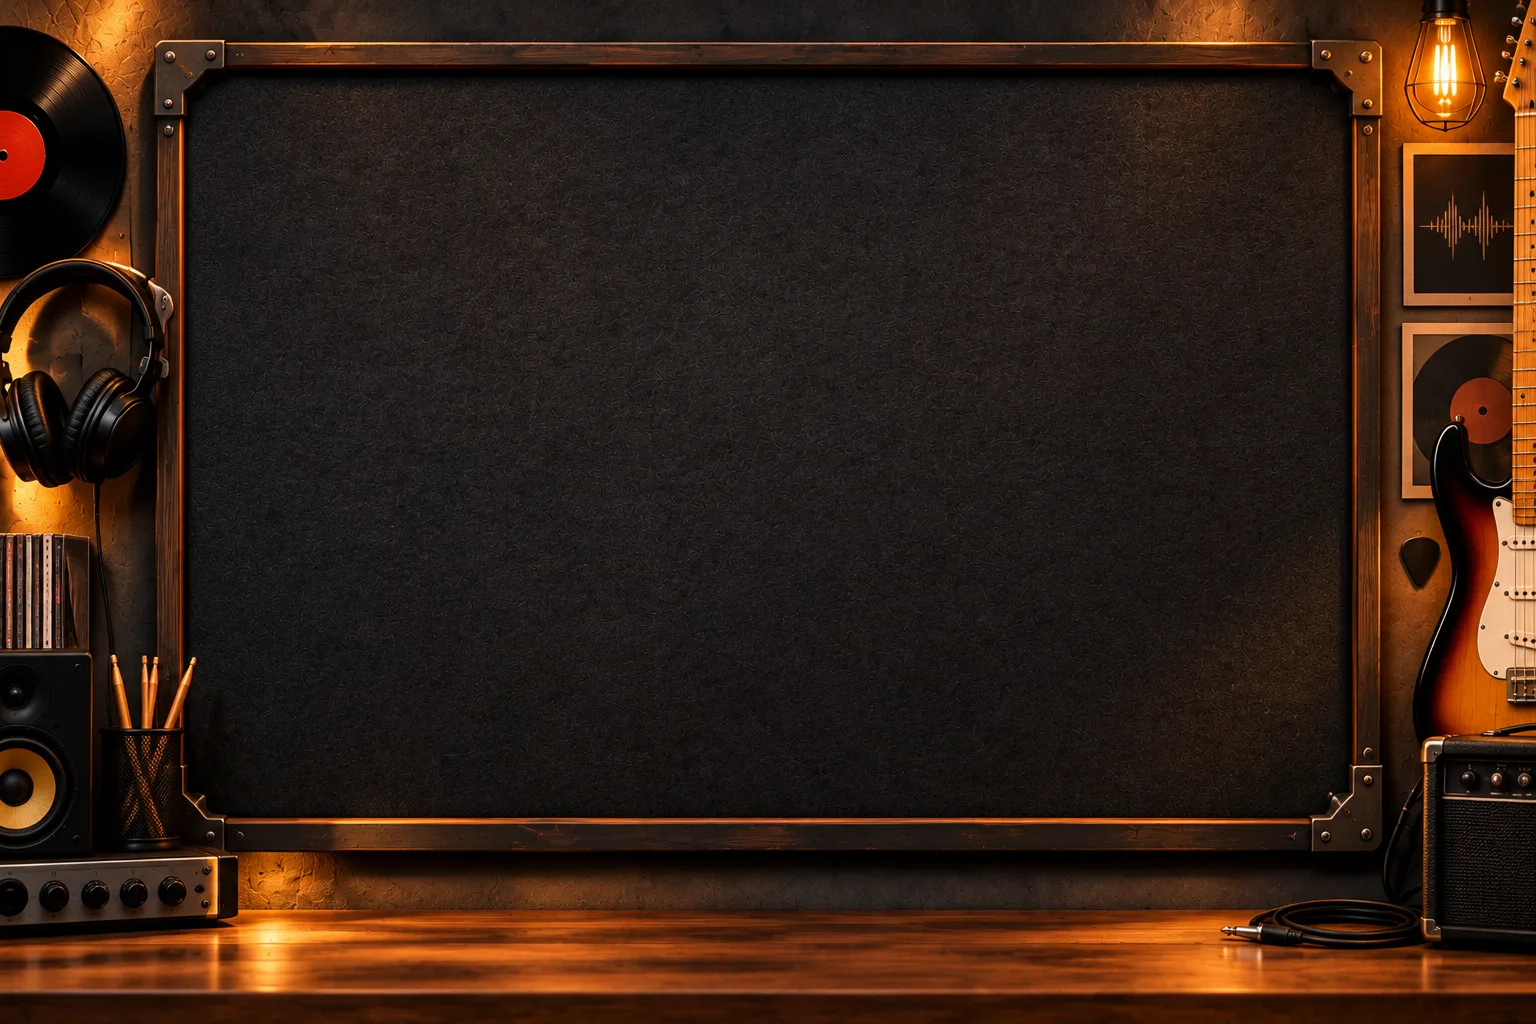
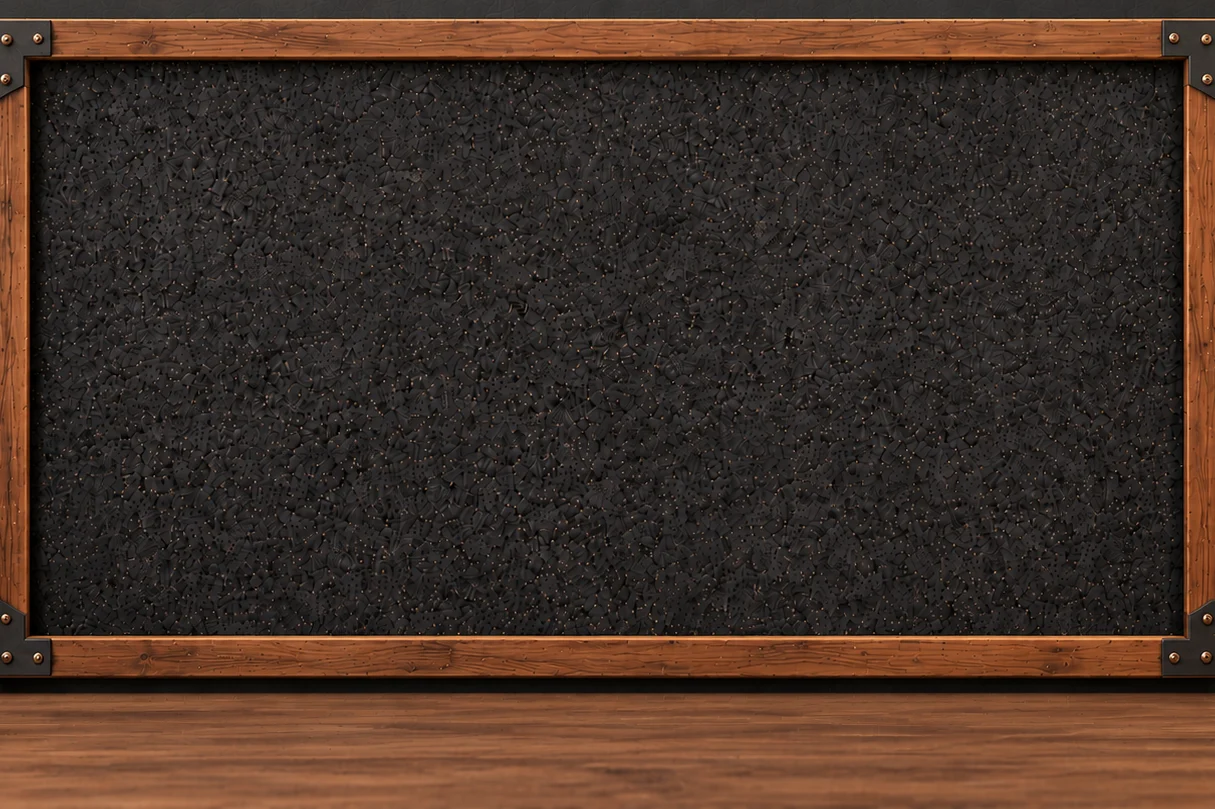
Novas artes panorâmicas dos quadros (7 quadros): Cortiça, Acolhedor, Filmes, Game, Minimalista, Música e Viagens

diff --git a/src/lib/boards.ts b/src/lib/boards.ts
@@ -1,7 +1,7 @@
 import type { PlanId } from "./plans";
 
-/** Quadros (fundos) do mural (10 no total). O primeiro é o padrão de todo mural novo. Originais em /imagens/quadro-*.png. */
-export type BoardId = "cortica" | "criativo" | "geek" | "leitura" | "minimalista" | "familia" | "filmes" | "musica" | "pets" | "viagens";
+/** Quadros (fundos) do mural (7 no total). O primeiro é o padrão de todo mural novo. Originais em /imagens/quadro-*.png. */
+export type BoardId = "cortica" | "familia" | "filmes" | "geek" | "minimalista" | "musica" | "viagens";
 
 export type BoardInfo = {
   id: BoardId;
@@ -18,15 +18,12 @@ export type BoardInfo = {
 
 export const BOARDS: readonly BoardInfo[] = [
   { id: "cortica", name: "Cortiça", image: "/img/quadro-desktop.webp?v=3", wide: "/img/quadro-desktop-wide.webp?v=1", cork: { left: 3.4, top: 6.8, width: 93.3, height: 75.2 }, size: 1 },
-  { id: "criativo", name: "Criativo", image: "/img/quadro-criativo.webp?v=2", cork: { left: 12.6, top: 9.2, width: 75.4, height: 69.5 }, size: 1 },
-  { id: "geek", name: "Geek", image: "/img/quadro-geek.webp", cork: { left: 12.9, top: 8.2, width: 76, height: 71.1 }, size: 1 },
-  { id: "leitura", name: "Leitura", image: "/img/quadro-leitura.webp", cork: { left: 15.5, top: 9.3, width: 68.4, height: 65.6 }, size: 0.86 },
-  { id: "minimalista", name: "Minimalista", image: "/img/quadro-minimalista.webp", cork: { left: 12.4, top: 9.3, width: 76.2, height: 69.4 }, size: 1 },
-  { id: "familia", name: "Família", image: "/img/quadro-familia.webp", cork: { left: 12.6, top: 9.6, width: 77.2, height: 69.7 }, size: 1 },
-  { id: "filmes", name: "Filmes", image: "/img/quadro-filmes.webp", cork: { left: 13, top: 9.3, width: 73.9, height: 68.8 }, size: 1 },
-  { id: "musica", name: "Música", image: "/img/quadro-musica.webp", cork: { left: 12.4, top: 7.6, width: 75.2, height: 71.7 }, size: 1 },
-  { id: "pets", name: "Pets", image: "/img/quadro-pets.webp", cork: { left: 12, top: 9.8, width: 78.2, height: 69.8 }, size: 1 },
-  { id: "viagens", name: "Viagens", image: "/img/quadro-viagens.webp", cork: { left: 13, top: 9.8, width: 76.8, height: 69.3 }, size: 1 },
+  { id: "familia", name: "Acolhedor", image: "/img/quadro-familia.webp?v=3", wide: "/img/quadro-familia-wide.webp?v=1", cork: { left: 3.8, top: 6.4, width: 92.9, height: 75.3 }, size: 1 },
+  { id: "filmes", name: "Filmes", image: "/img/quadro-filmes.webp?v=3", wide: "/img/quadro-filmes-wide.webp?v=1", cork: { left: 5.6, top: 7.9, width: 88.8, height: 67.7 }, size: 1 },
+  { id: "geek", name: "Game", image: "/img/quadro-geek.webp?v=3", wide: "/img/quadro-geek-wide.webp?v=1", cork: { left: 3, top: 5.6, width: 93.7, height: 75.8 }, size: 1 },
+  { id: "minimalista", name: "Minimalista", image: "/img/quadro-minimalista.webp?v=3", wide: "/img/quadro-minimalista-wide.webp?v=1", cork: { left: 3.4, top: 7.3, width: 93.2, height: 74.2 }, size: 1 },
+  { id: "musica", name: "Música", image: "/img/quadro-musica.webp?v=3", wide: "/img/quadro-musica-wide.webp?v=1", cork: { left: 2.5, top: 7.4, width: 94.8, height: 70.8 }, size: 1 },
+  { id: "viagens", name: "Viagens", image: "/img/quadro-viagens.webp?v=3", wide: "/img/quadro-viagens-wide.webp?v=1", cork: { left: 3.5, top: 7.4, width: 93, height: 74.2 }, size: 1 },
 ];
 
 /** Versão pequena do fundo (480 px), gerada sozinha por scripts/board-thumbs.mjs a cada build: só para fundos DESFOCADOS (o mural em si usa sempre a imagem grande). */
@@ -43,4 +40,4 @@ export const boardById = (id?: string | null): BoardInfo => BOARDS.find((b) => b
 export const canChangeBoard = (plan: PlanId, credits: number) => plan === "full" || credits > 0;
 
 /** Murais lançados mais recentemente, do mais novo para o mais antigo: ganham o selo "Novo" e aparecem primeiro na loja. Ao lançar um mural, coloque-o no começo desta lista (e tire os mais velhos). */
-export const NEW_BOARDS: readonly BoardId[] = ["viagens", "pets", "musica"];
+export const NEW_BOARDS: readonly BoardId[] = ["viagens", "musica"];
